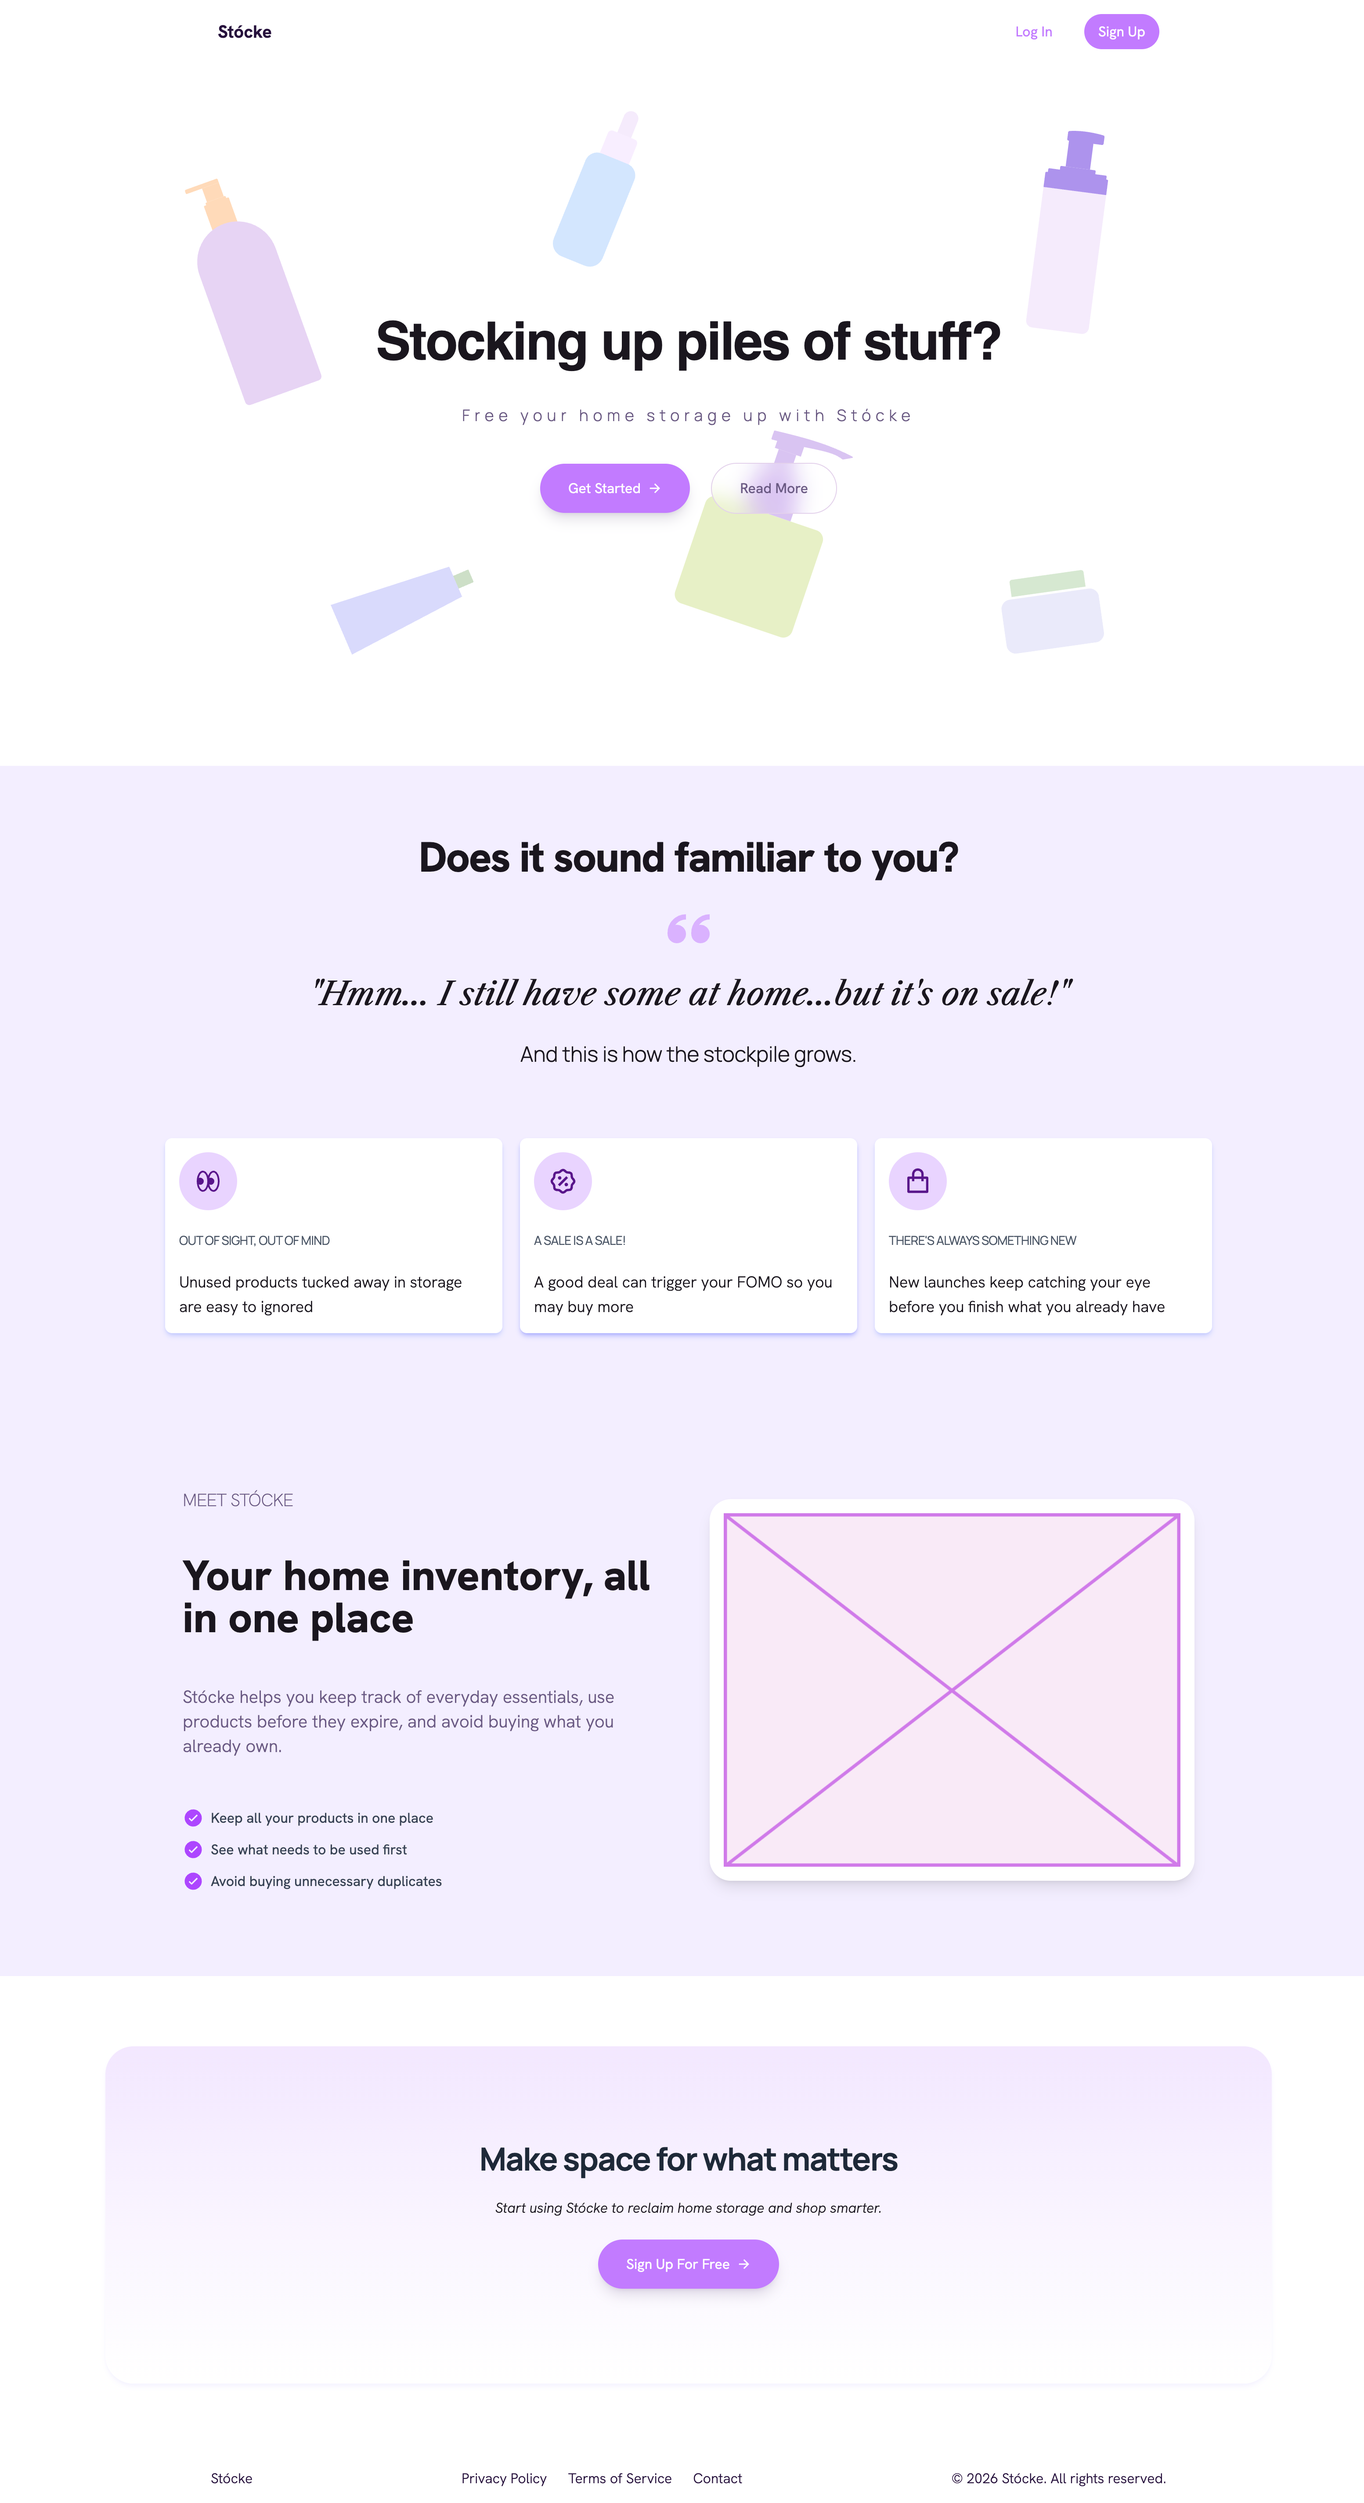
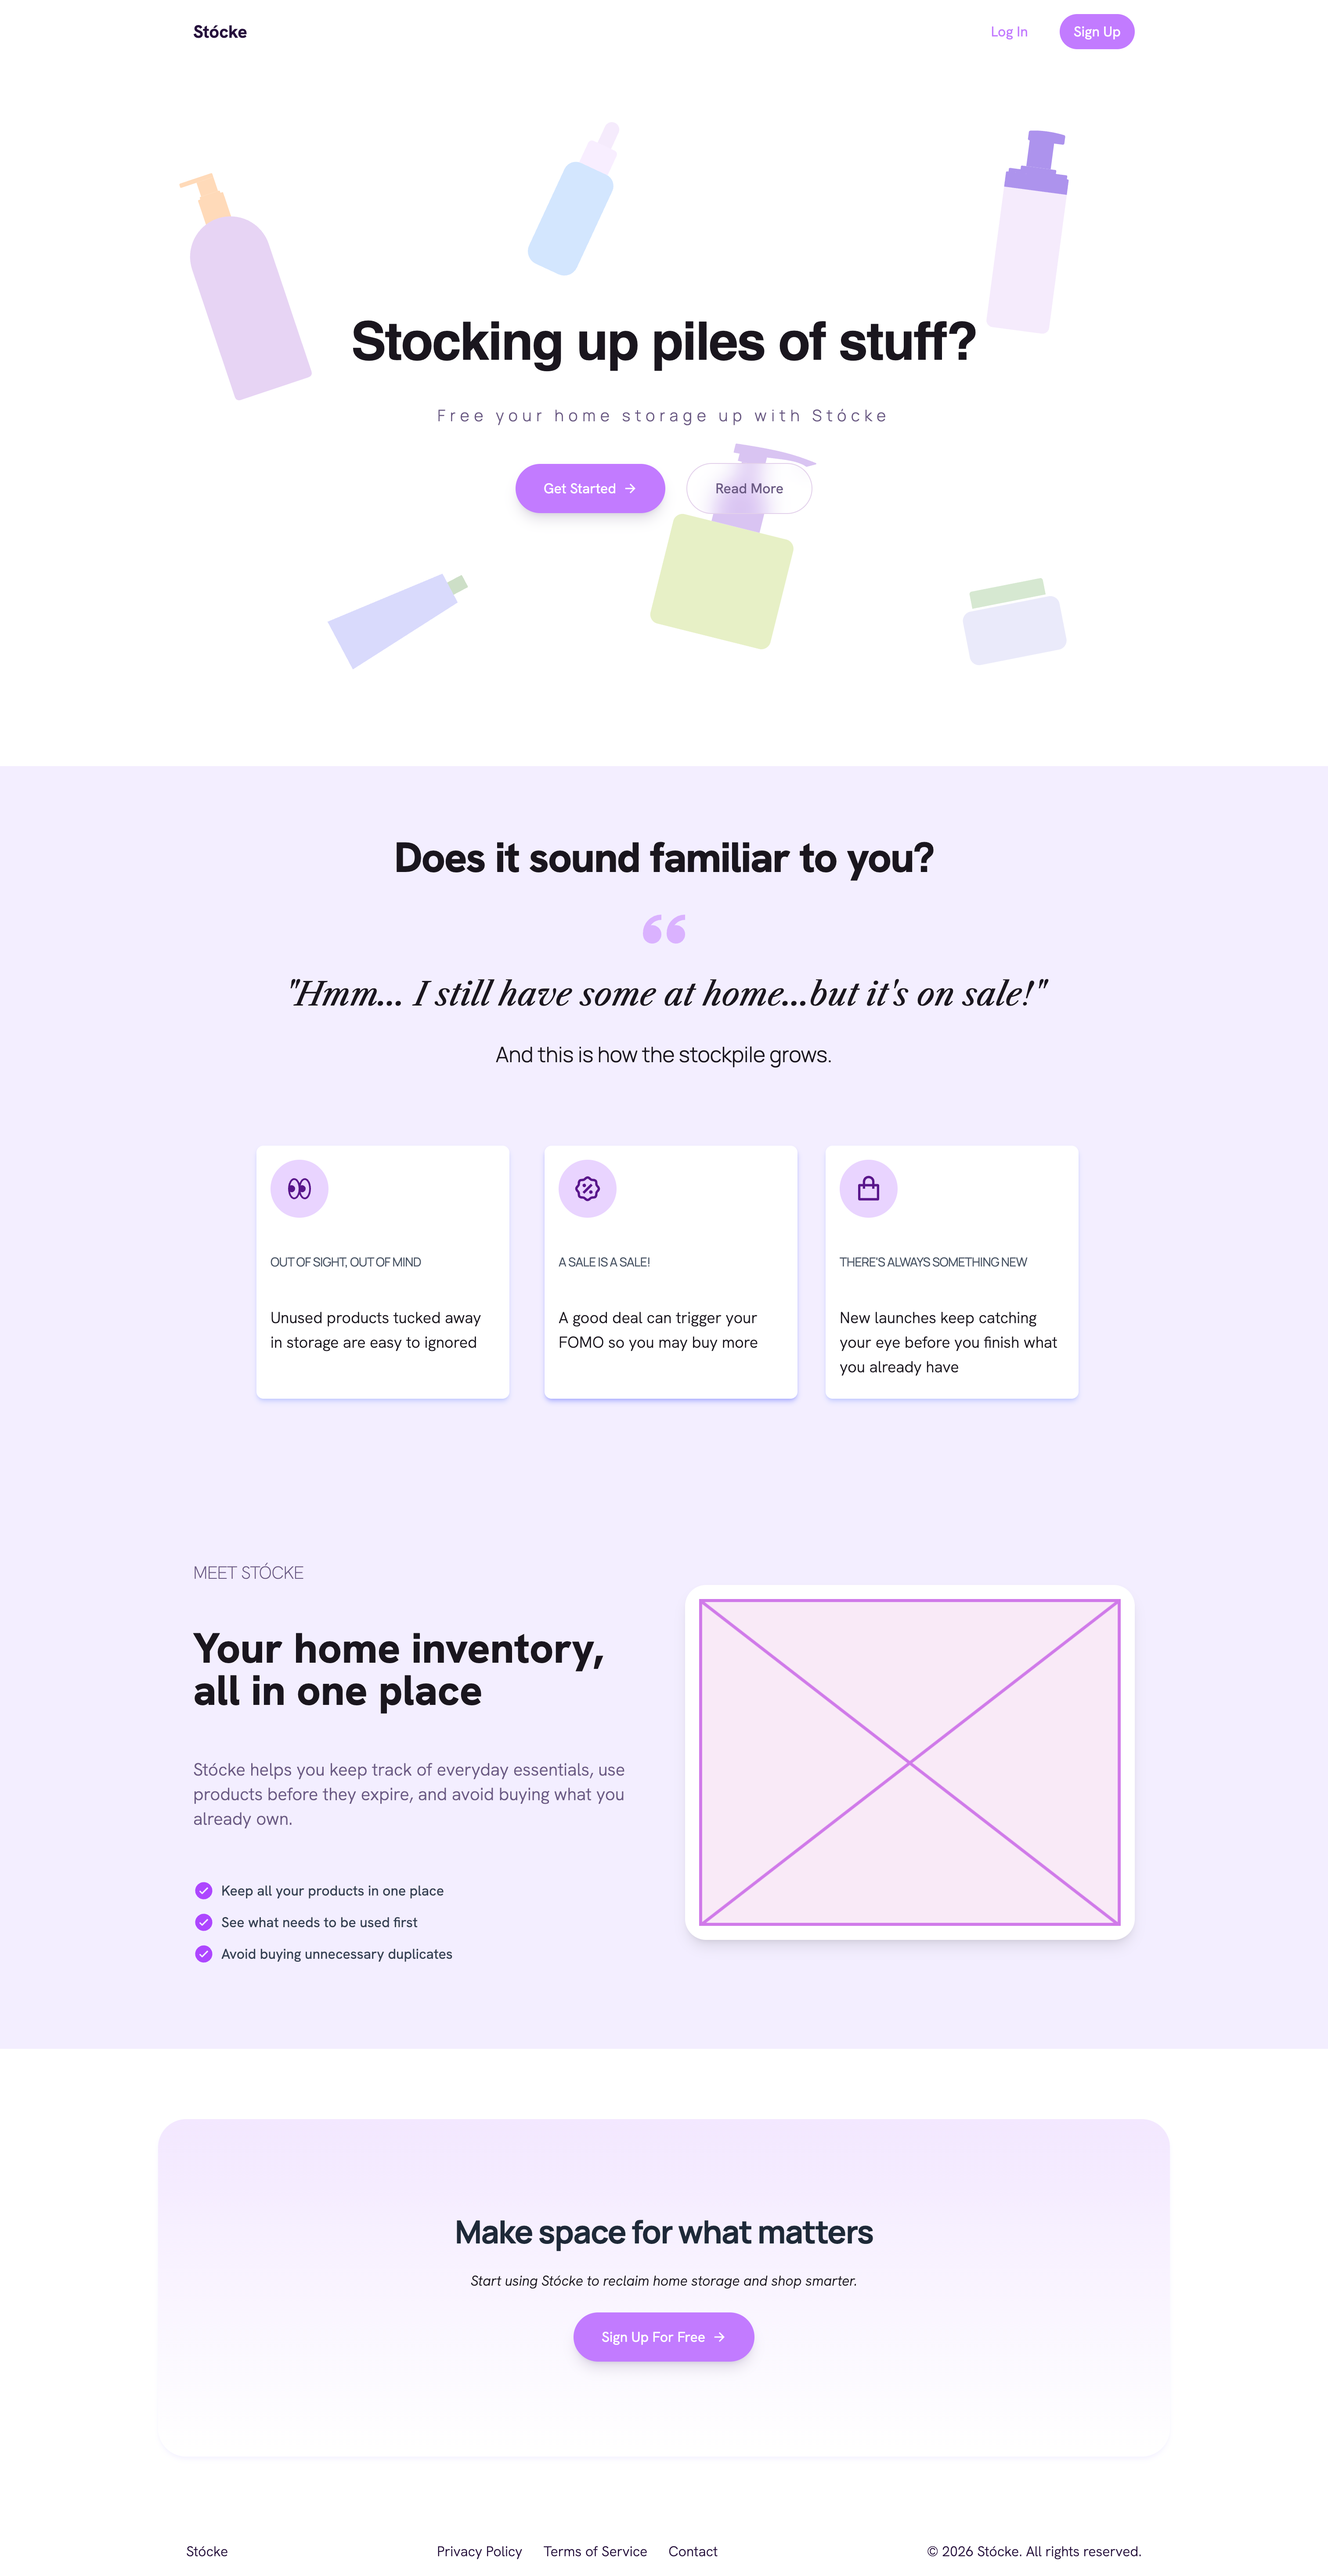
style(landing): refine public landing page layout and spacing

diff --git a/frontend/src/pages/MainPage.tsx b/frontend/src/pages/MainPage.tsx
@@ -20,7 +20,7 @@ export default function MainPage() {
             <div className="min-h-screen">
                 <Navbar />
                 <section className="w-full mx-auto">
-                    <div className="relative bg-white h-[800px]">
+                    <div className="relative bg-white h-[800px] px-8 md:px-10">
                         <motion.img
                             src={lotion}
                             alt=""
@@ -121,7 +121,7 @@ export default function MainPage() {
                 </section>
 
                 <section className="w-full h-auto mx-auto">
-                    <div className="flex flex-col items-center justify-center gap-8 my-20 mx-auto">
+                    <div className="flex flex-col items-center justify-center gap-8 my-20 mx-auto px-8 md:px-10">
                         <h2 className="text-center max-w-4xl text-4xl md:text-5xl font-extrabold tracking-tight text-[#1a161e]">
                             Does it sound familiar to you?
                         </h2>
@@ -129,8 +129,8 @@ export default function MainPage() {
                         <h3 className="italic text-2xl md:text-4xl font-normal text-center">"Hmm... I still have some at home...but it's on sale!"</h3>
                         <h4 className="text-2xl font-light">And this is how the stockpile grows.</h4>
                     </div>
-                    <div className="flex flex-col md:flex-row items-center justify-center gap-5 my-20 mx-auto">
-                        <div className="rounded-lg bg-white p-4 w-sm flex flex-col gap-6 shadow-md shadow-indigo-300/50">
+                    <div className="flex flex-col md:flex-row items-center justify-center gap-8 my-20 mx-auto px-8 md:px-10">
+                        <div className="rounded-lg bg-white p-4 size-72 flex flex-col gap-10 shadow-md shadow-indigo-300/50 m-2">
                             <div className="border border-transparent bg-purple-200 w-fit rounded-full">
                                 <PiEyesFill className="w-8 h-8 m-4 text-purple-900" />
                             </div>
@@ -138,7 +138,7 @@ export default function MainPage() {
                             <p className="text-lg font-light tracking-normal">Unused products tucked away in storage are easy to ignored</p>
                         </div>
 
-                        <div className="rounded-lg bg-white p-4 w-sm flex flex-col gap-6 shadow-md shadow-indigo-400/50">
+                        <div className="rounded-lg bg-white p-4 size-72 flex flex-col gap-10 shadow-md shadow-indigo-400/50">
                             <div className="border border-transparent bg-purple-200 w-fit rounded-full">
                                 <RiDiscountPercentLine className="w-8 h-8 m-4 text-purple-900" />
                             </div>
@@ -146,7 +146,7 @@ export default function MainPage() {
                             <p className="text-lg font-light tracking-normal">A good deal can trigger your FOMO so you may buy more</p>
                         </div>
 
-                        <div className="rounded-lg bg-white p-4 w-sm flex flex-col gap-6 shadow-md shadow-indigo-300/50">
+                        <div className="rounded-lg bg-white p-4 size-72 flex flex-col gap-10 shadow-md shadow-indigo-300/50">
                             <div className="border border-transparent bg-purple-200 w-fit rounded-full">
                                 <RiShoppingBagLine className="w-8 h-8 m-4 text-purple-900" />
                             </div>
@@ -156,7 +156,7 @@ export default function MainPage() {
                     </div>
                 </section>
                 <section className="px-6 py-24 mx-auto">
-                    <div className="mx-auto grid max-w-6xl items-center gap-12 md:grid-cols-2">
+                    <div className="mx-auto grid max-w-6xl items-center gap-12 md:grid-cols-2 px-8 md:px-10">
                         <div className="flex flex-col gap-8">
                             <p className="text-xl font-extralight uppercase tracking-tight text-[#6b5a83]">
                                 Meet Stócke
@@ -194,8 +194,8 @@ export default function MainPage() {
                         </div>
                     </div>
                 </section>
-                <section className="bg-white py-20 px-30 mx-auto">
-                    <div className="bg-gradient-to-t from-white to-purple-100 shadow-md shadow-violet-50 p-10 h-96 rounded-4xl text-center flex flex-col items-center justify-center gap-6">
+                <section className="bg-white py-20 mx-auto px-8 md:px-10 ">
+                    <div className="bg-gradient-to-t from-white to-purple-100 shadow-md shadow-violet-50 p-10 h-96 rounded-4xl text-center flex flex-col items-center justify-center gap-6 max-w-6xl mx-auto">
                             <h4 className="text-3xl md:text-4xl tracking-tight font-bold text-center text-gray-800">Make space for what matters</h4>
                             <span className="font-light italic">Start using Stócke to reclaim home storage and shop smarter.</span>
                             <button
